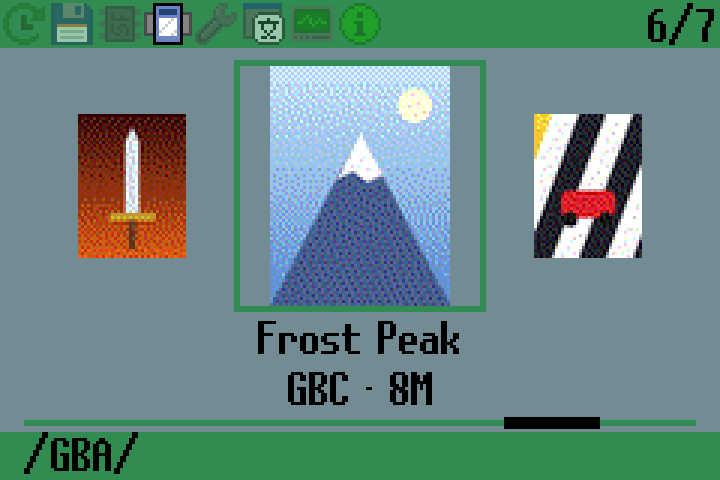
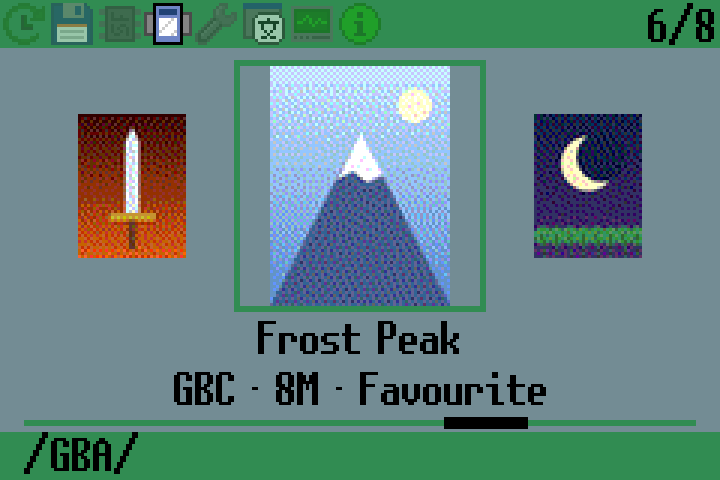
README: view (Start) and favourites, with pictures
- New README sections for the view (Show, Sort by, which file types make
  which system, the top bar, the card root tip) and the favourites.
- tools/carousel-preview.py: --view (a system or Favourites), --sort,
  --popup (the Start pop up), the Favourite tag and the view in the top bar.
- docs/images: the view pop up and a GB/GBC view; the example card has two
  favourites and a second GBC game.

diff --git a/tools/carousel-preview.py b/tools/carousel-preview.py
@@ -99,6 +99,7 @@ class Screen:
   def __init__(self, theme):
     self.px = bytearray([BG]) * (W * H)
     self.objs = []
+    self.bands = []       # Selection highlight rows (icon 63: the highlight color, 50% blended)
     self.theme = theme
 
   def fill(self, left, top, w, h, color):
@@ -151,6 +152,9 @@ class Screen:
       pal[mc.PAL_BASE + i] = c
     img = Image.new("RGB", (W, H))
     img.putdata([pal.get(p, (255, 255, 255)) for p in self.px])
+    for y in self.bands:
+      box = (0, y, W, min(y + 16, H))
+      img.paste(Image.blend(img.crop(box), Image.new("RGB", (W, box[3] - y), pal[HI]), 0.5), box)
     for x, y, n, trans in self.objs:
       ic = icons.crop((n * 16, 0, n * 16 + 16, 16))
       if trans:   # 50% alpha blending (REG_BLDALPHA = 0x0808)
@@ -158,6 +162,19 @@ class Screen:
         ic.putalpha(a)
       img.paste(ic, (x, y), ic)
     return img
+
+# Carousel systems (car_view / "Sort by system"): GBA, then the emulator
+# groups in src/emu.c order.
+SYSTEMS = [("GBA", ("gba",)), ("GB/GBC", ("gb", "gbc")), ("NES", ("nes",)), ("SMS", ("sms",)),
+           ("GG", ("gg",)), ("SG", ("sg",)), ("SV", ("sv",)), ("NGC", ("ngc",)), ("PCE", ("pce",))]
+SORTS = ["Name", "System", "Recently played"]
+
+def system_of(fn):
+  ext = os.path.splitext(fn)[1][1:].lower()
+  for i, (_, exts) in enumerate(SYSTEMS):
+    if ext in exts:
+      return i
+  return 0
 
 def guessicon(fn):
   ext = os.path.splitext(fn)[1][1:].lower()
@@ -185,12 +202,30 @@ def fade(c, target):
     out |= cc << sh
   return out
 
-def render(games, covers, sel, offset, cpath, theme, icons, tint=None, info=None, letter=False):
+def render_view_popup(s, view, sort, row):
+  # Like render_carousel_view(): the Start pop up over the plain background.
+  s.fill(0, 16, W, H - 16, BG)
+  for y in (18, 19, 156, 157):
+    s.fill(2, y, W - 4, 1, FG)
+  s.fill(2, 18, 2, 140, FG)
+  s.fill(W - 4, 18, 2, 140, FG)
+  for i, (label, value) in enumerate((("Show", view), ("Sort by", sort))):
+    y = 34 + i * 54
+    s.central(label, W // 2, y)
+    s.central("< %s >" % value, W // 2, y + 20)
+    if i == row:
+      s.bands.append(y + 20)
+
+def render(games, covers, sel, offset, cpath, theme, icons, tint=None, info=None, letter=False,
+           view=None, popup=None):
   s = Screen(theme)
   # Tab bar
   s.fill(0, 0, W, 16, FG)
   for i, ic in enumerate(TAB_ICONS):
     s.icon(i * 16, 0, ic, i != CAROUSEL_TAB)
+  if popup:
+    render_view_popup(s, *popup)
+    return s.image(icons, tint)
   s.fill(0, 16, W, 128, CAR_BG)
   # Bottom bar: folder of the selected game
   s.fill(0, 144, W, 16, FG)
@@ -234,6 +269,8 @@ def render(games, covers, sel, offset, cpath, theme, icons, tint=None, info=None
     s.text(title, 8, 105, maxw=W - 8)
   parts = [os.path.splitext(fn)[1][1:].upper(), human_size(fs)]
   if info and offset == 0:
+    if info.get("fav"):
+      parts.append("Favourite")
     if info.get("save"):
       parts.append("Save")
     if info.get("last"):
@@ -246,7 +283,10 @@ def render(games, covers, sel, offset, cpath, theme, icons, tint=None, info=None
     x = 8 + (((track - w) * sel // (len(games) - 1)) & ~1)
     s.fill(8, 140, track, 2, FG)
     s.fill(x, 139, w, 4, FT)
-  s.rightj("%d/%d" % (sel + 1, len(games)), W - 1, 1)
+  pos = "%d/%d" % (sel + 1, len(games))
+  if view and text_width("%s %s" % (view, pos)) <= 92:    # Next to the tab icons
+    pos = "%s %s" % (view, pos)
+  s.rightj(pos, W - 1, 1)
 
   if letter:
     ch = title[:1].upper()
@@ -278,7 +318,14 @@ def game_info(sdroot, games, n):
           break
   except OSError:
     pass
-  return {"save": save, "last": last}
+  return {"save": save, "last": last, "fav": folder + fn in favourites(sdroot)}
+
+def favourites(sdroot):
+  try:
+    with open(os.path.join(sdroot, ".superfw", "favorites.txt"), encoding="utf-8") as fd:
+      return {line.rstrip("\r\n") for line in fd}
+  except OSError:
+    return set()
 
 def main():
   p = argparse.ArgumentParser()
@@ -290,6 +337,10 @@ def main():
   p.add_argument("--theme", type=int, default=0)
   p.add_argument("--scale", type=int, default=3)
   p.add_argument("--letter", action="store_true", help="Show the big letter (as after an Up/Down jump)")
+  p.add_argument("--view", default=None, help="Show only: Favourites or a system (GBA, GB/GBC, NES...)")
+  p.add_argument("--sort", default="Name", choices=SORTS, help="Order of the games")
+  p.add_argument("--popup", type=int, default=None, metavar="ROW",
+                 help="Show the Start pop up (view and sort) with this row selected (0 or 1)")
   a = p.parse_args()
 
   romdir = os.path.join(a.sdroot, a.romdir.strip("/\\"))
@@ -307,6 +358,15 @@ def main():
       if not fn.startswith(".") and ext in mc.SYSTEMS:
         games.append((fn, os.path.getsize(full), folder, full))
   games.sort(key=lambda g: g[0].lower())
+
+  # View (Start): filter and order, like carousel_build_view().
+  if a.view == "Favourites":
+    favs = favourites(a.sdroot)
+    games = [g for g in games if g[2] + g[0] in favs]
+  elif a.view:
+    games = [g for g in games if SYSTEMS[system_of(g[0])][0] == a.view]
+  if a.sort == "System":
+    games.sort(key=lambda g: system_of(g[0]))     # Stable: by name within a system
 
   # Same lookup as carousel_open_cover(): <file name>.cov, then <game code>.cov
   covers = {}
@@ -328,7 +388,9 @@ def main():
   sel = min(a.select, max(0, len(games) - 1))
   tint = target_tint(a.theme, covers.get(games[sel][3])) if games else None
   info = game_info(a.sdroot, games, sel) if games else None
-  up(render(games, covers, sel, 0, cpath, a.theme, icons, tint, info, a.letter)).save(a.out)
+  popup = (a.view or "All games", a.sort, a.popup) if a.popup is not None else None
+  up(render(games, covers, sel, 0, cpath, a.theme, icons, tint, info, a.letter,
+            a.view, popup)).save(a.out)
   print("Wrote", a.out)
 
   if a.gif and games:

diff --git a/docs/images/make-examples.py b/docs/images/make-examples.py
@@ -27,6 +27,7 @@ GAMES = [
   ("Deep Blue Dive.gba",   ((40, 160, 220), (5, 30, 90)),   "waves"),
   ("Ember Knight.gba",     ((60, 10, 10), (220, 90, 20)),   "sword"),
   ("Frost Peak.gbc",       ((200, 230, 255), (90, 140, 210)), "mountain"),
+  ("Moon Garden.gbc",      ((20, 30, 70), (70, 40, 110)),   "moon"),
   ("Pixel Racer.nes",      ((250, 220, 60), (230, 120, 20)), "stripes"),
 ]
 
@@ -72,6 +73,12 @@ def cover(colors, kind, w=240, h=320):
     d.polygon([(0, 320), (120, 90), (240, 320)], fill=(70, 90, 140))
     d.polygon([(120, 90), (90, 150), (110, 140), (130, 155), (150, 145)], fill=(250, 250, 255))
     d.ellipse((170, 30, 215, 75), fill=(255, 250, 220))
+  elif kind == "moon":
+    d.ellipse((60, 50, 180, 170), fill=(250, 240, 190))
+    d.ellipse((95, 40, 205, 150), fill=(20, 30, 70))
+    for x in range(0, 240, 30):
+      d.ellipse((x, 250, x + 40, 290), fill=(60, 140, 80))
+      d.rectangle((x + 18, 270, x + 22, 320), fill=(40, 100, 50))
   elif kind == "stripes":
     for i in range(6):
       d.polygon([(i * 60 - 80, 320), (i * 60 - 20, 320), (i * 60 + 100, 0), (i * 60 + 40, 0)],
@@ -92,14 +99,20 @@ def main():
         fd.truncate((4 << 20) * (1 + i % 4))        # Only the size is used
       with open(os.path.join(covers, fn + ".cov"), "wb") as fd:
         fd.write(mc.cover_bytes(cover(colors, kind)))
-    # A save for one of them (shown in the info line).
+    # A save for one of them (shown in the info line), and two favourites.
     open(os.path.join(gba, "Castle Run.sav"), "wb").close()
+    os.makedirs(os.path.join(sd, ".superfw"), exist_ok=True)
+    with open(os.path.join(sd, ".superfw", "favorites.txt"), "w", encoding="utf-8") as fd:
+      fd.write("/GBA/Castle Run.gba\n/GBA/Frost Peak.gbc\n")
 
     preview = [sys.executable, os.path.join(TOOLS, "carousel-preview.py"), sd, "/GBA/"]
     run = lambda *args: subprocess.run(preview + list(args), check=True)
     run(os.path.join(HERE, "carousel.png"), "--select", "2", "--scale", "3")
     run(os.path.join(HERE, "carousel-letter.png"), "--select", "4", "--scale", "3", "--letter")
     run(os.path.join(HERE, "carousel-theme.png"), "--select", "5", "--scale", "3", "--theme", "3")
+    # Start: the view pop up, and the favourites view.
+    run(os.path.join(HERE, "carousel-view.png"), "--scale", "3", "--view", "GB/GBC", "--popup", "0")
+    run(os.path.join(HERE, "carousel-gbc.png"), "--scale", "3", "--view", "GB/GBC")
     run(os.path.join(HERE, "carousel-scroll.png"), "--scale", "2",
         "--gif", os.path.join(HERE, "carousel.gif"))
     os.remove(os.path.join(HERE, "carousel-scroll.png"))

diff --git a/README.md b/README.md
@@ -75,10 +75,7 @@ of box art covers sorted by name:
    flash). For games already in flash it offers "Remove from flash" (same as
    the flash tab) and "Load from SD card" instead, and shows the flash usage.
    "Add to favourites" / "Remove from favourites" is there too.
- - Start: the view. "Show" picks the games: all of them, the favourites, or
-   one system (GBA, GB/GBC, NES, SMS...: only the ones on the card). "Sort by"
-   picks the order: name, system (games grouped by emulator) or recently
-   played. The top bar shows the view (ie. "NES 3/12"); it is remembered.
+ - Start: the view, which games are shown and in which order (see below).
  - L/R switch tabs.
 
 ![The carousel tab](docs/images/carousel.png)
@@ -93,6 +90,38 @@ The games and covers in these pictures are made up (drawn by
 `docs/images/make-examples.py`, so no real box art is in the repository); the
 screens are rendered by `tools/carousel-preview.py` with the firmware's layout
 and assets.
+
+### View: which games, in which order (Start)
+
+Start opens the view. Up/Down picks the row, Left/Right changes it, A or Start
+closes it. It is remembered (in `ui-settings.txt`).
+
+ - Show: all games, the favourites, or one system. The systems come from the
+   file types, not the folder names, and only the ones there are games for
+   are offered: GBA (`.gba`), GB/GBC (`.gb`, `.gbc`: one emulator), NES
+   (`.nes`), SMS (`.sms`), GG (`.gg`), SG (`.sg`), SV (`.sv`), NGC (`.ngc`)
+   and PCE (`.pce`).
+ - Sort by: name, system (the games grouped by emulator; Up/Down then jump
+   from one system to the next) or recently played (Up/Down move 5 games).
+
+When not all games are shown, the top bar shows the view next to the position
+(ie. "GB/GBC 1/2"), if it fits.
+
+| The view (Start) | Only the GB/GBC games |
+|---|---|
+| ![The view pop up](docs/images/carousel-view.png) | ![GB/GBC view](docs/images/carousel-gbc.png) |
+
+The carousel lists the folder open in the SD browser and its subfolders. To
+have every game on the card in it (and filter them with Show), open the root
+of the card (`/`) in the SD browser before switching to the carousel.
+
+### Favourites
+
+Select > "Add to favourites" (or "Remove from favourites") in the carousel.
+Favourites show "Favourite" in the info line and have their own view (Show >
+Favourites). They are kept in `/.superfw/favorites.txt`, one full path per
+line, so they can also be edited on a PC. A game that is renamed or moved is
+no longer a favourite (the recent list works the same way).
 
 The background takes the color of the selected cover. Below the title it shows
 the system, the size, whether there is a save file, whether it is the last
